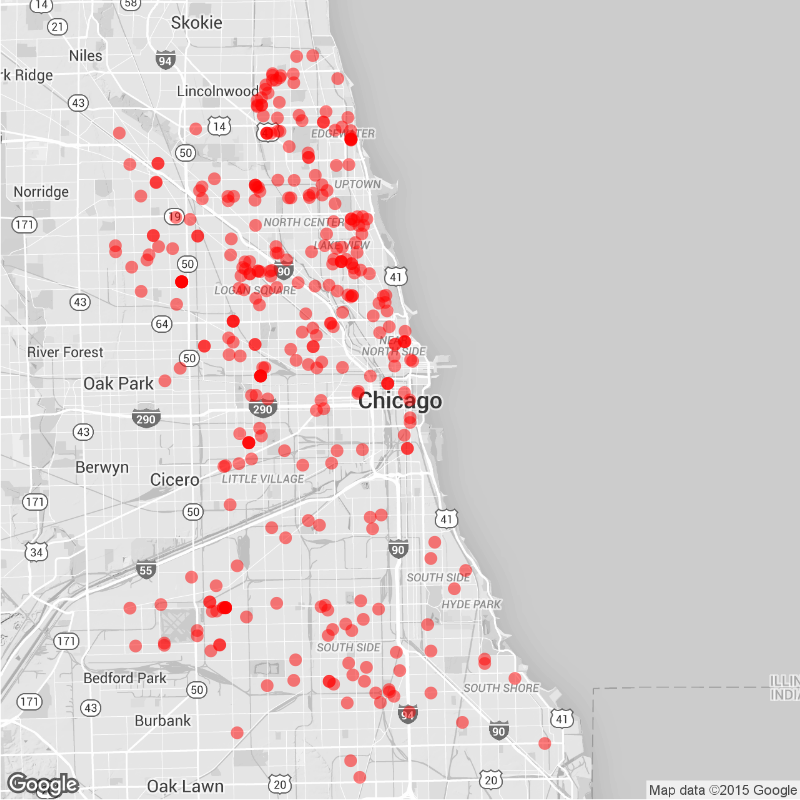
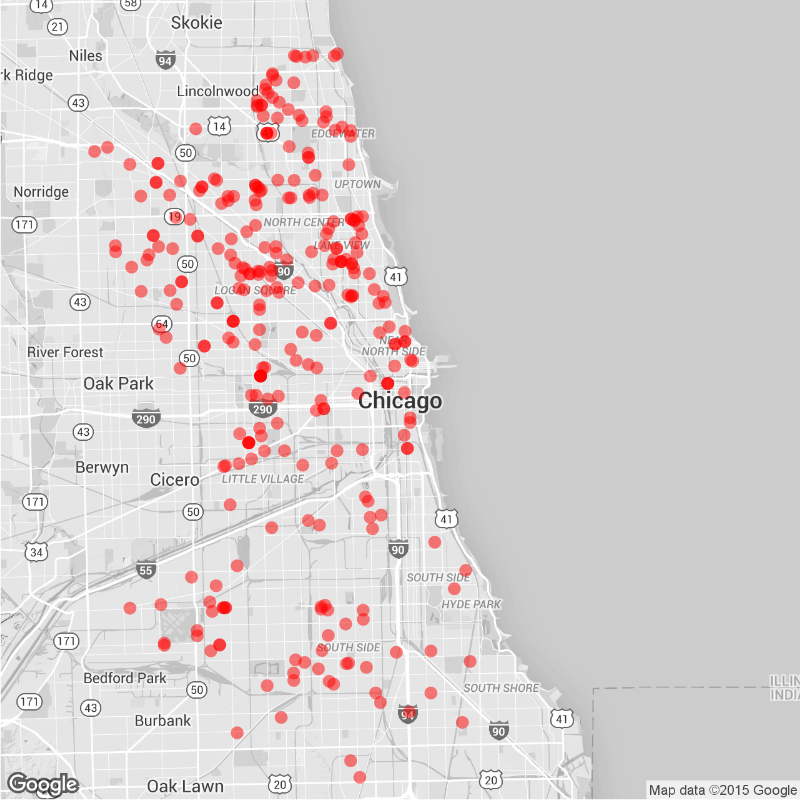
Daily Maps

diff --git a/daily.md b/daily.md
@@ -15,22 +15,22 @@ tags: Chicago NYC weekly daily rats
 
 ### Daily
 
-Yesterday (November 26), there were 13 calls to Chicago's 311 line about rats.
+Yesterday (November 27), there were 51 calls to Chicago's 311 line about rats.
 ![Chicago rat calls to 311 weekly map]({{ site.cityimages }}/daily/Chicago_Rat_Map_Daily.png)
 
 ### Weekly
-Between November 20 and November 26, there were 347 calls to Chicago's 311 line about rats. The average number of weekly calls for this time of year is 417.
+Between November 21 and November 27, there were 310 calls to Chicago's 311 line about rats. The average number of weekly calls for this time of year is 417.
 ![Chicago rat calls to 311 weekly map]({{ site.cityimages }}/daily/Chicago_Rat_Map_Weekly.png)
 ***
 # New York City <a id="nyc"><a>
 
 ### Daily
 
-Yesterday (November 26), there were 0 calls to New York City's 311 line about rats.
+Yesterday (November 27), there were 0 calls to New York City's 311 line about rats.
 ![NYC rat calls to 311 weekly map]({{ site.cityimages }}/daily/NYC_Rat_Map_Daily.png)
 
 ### Weekly
-Between November 20 and November 26, there were 0 calls to New York City's 311 line about rats. The average number of weekly calls for this time of year is 146.
+Between November 21 and November 27, there were 0 calls to New York City's 311 line about rats. The average number of weekly calls for this time of year is 146.
 ![NYC rat calls to 311 weekly map]({{ site.cityimages }}/daily/NYC_Rat_Map_Weekly.png)
 
 Each red dot represents one call about a rat seen in that location. The dots are transparent, so multiple calls from one location will be seen as a solid dot. The usual caveats apply: more calls do not necessarily mean that there are more rats in that location than other parts of the city. A cluster of dots could indicate that one resident is unusually vocal about rodents in his or her neighborhood. Also, more densely populated neighborhoods tend to make more calls to 311.
